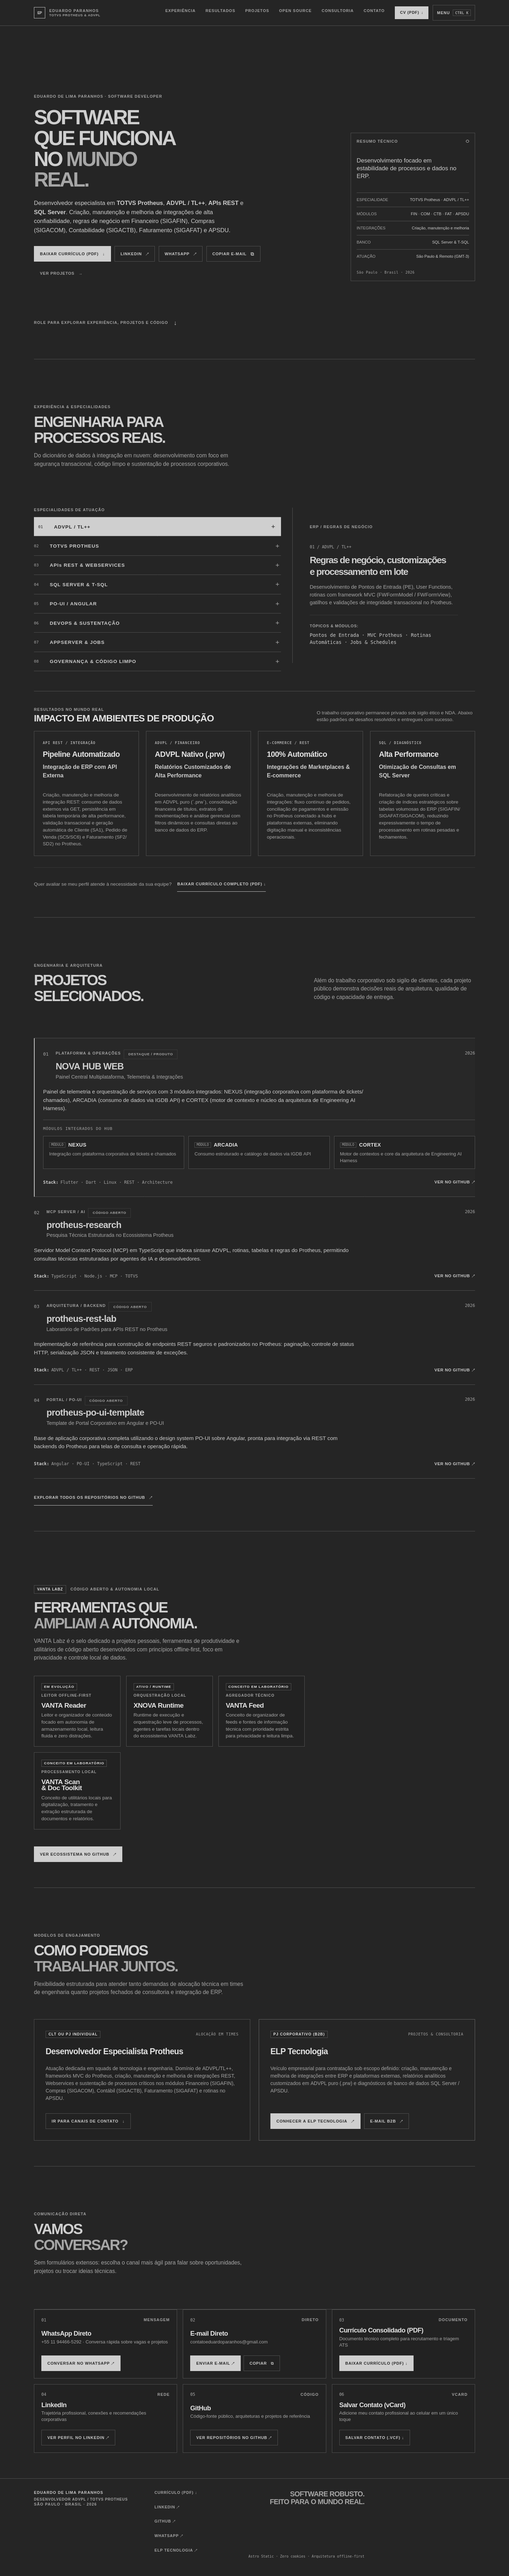
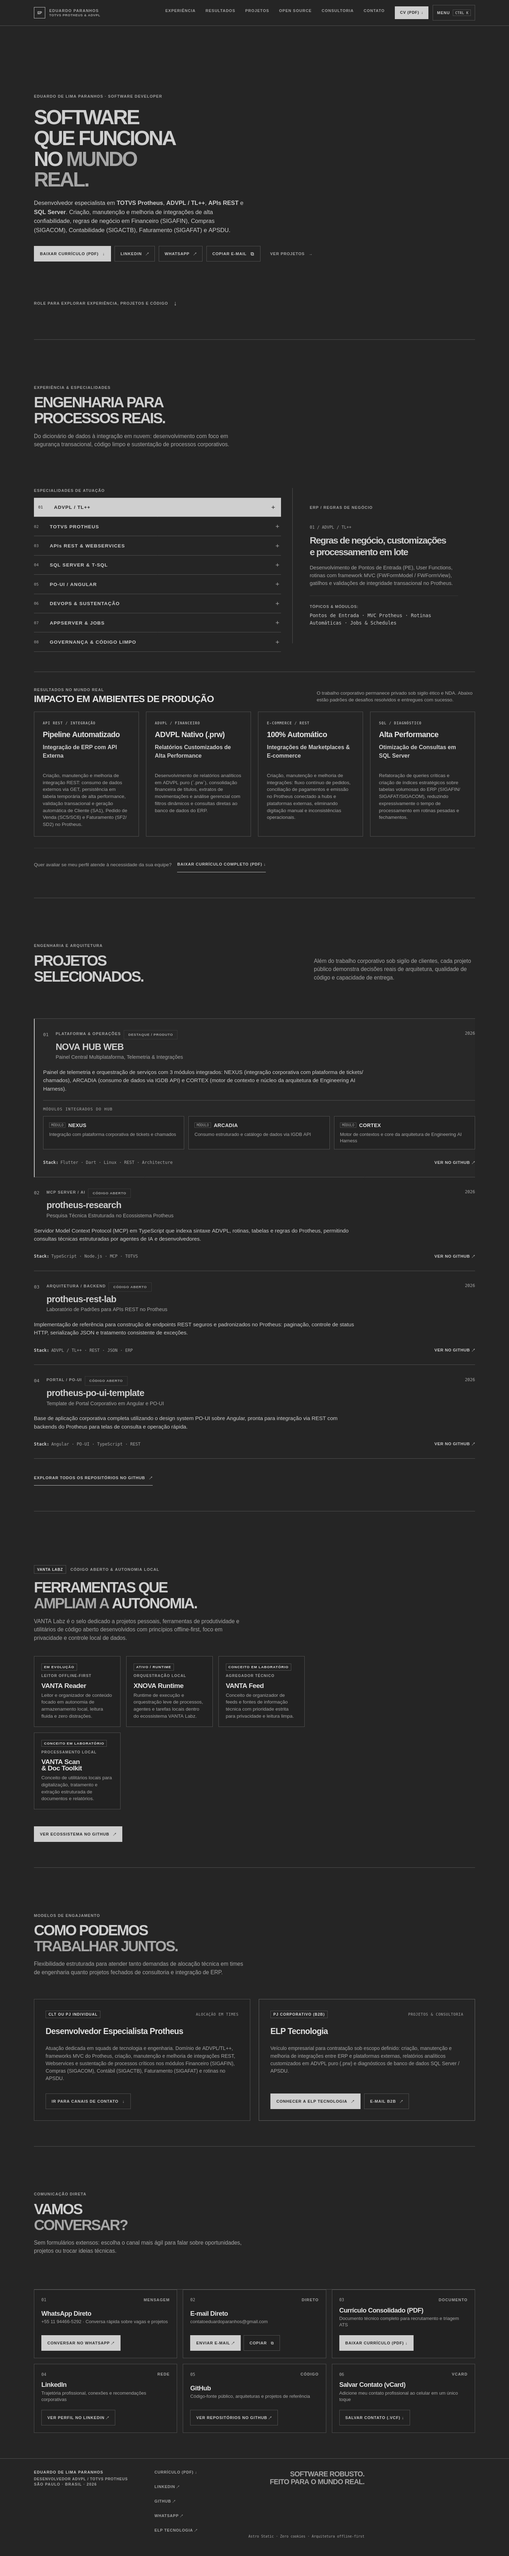
refactor: remove hero technical summary card for cleaner hero presentation

diff --git a/src/styles/global.css b/src/styles/global.css
@@ -2139,7 +2139,6 @@ html[data-audience='exploring'] [data-audience-focus~='exploring'] {
 }
 
 @media (min-width: 860px) {
-  .hero-grid,
   .router-layout {
     grid-template-columns: minmax(0, 1.3fr) minmax(17rem, 0.7fr);
   }
